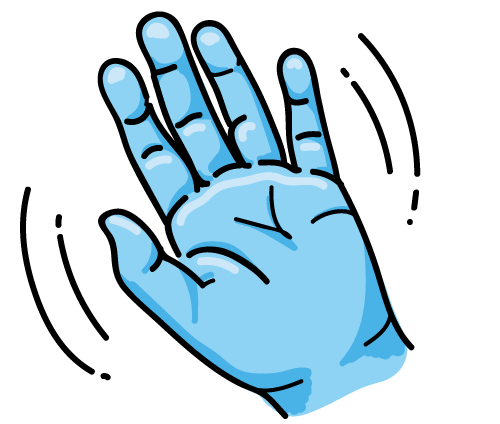
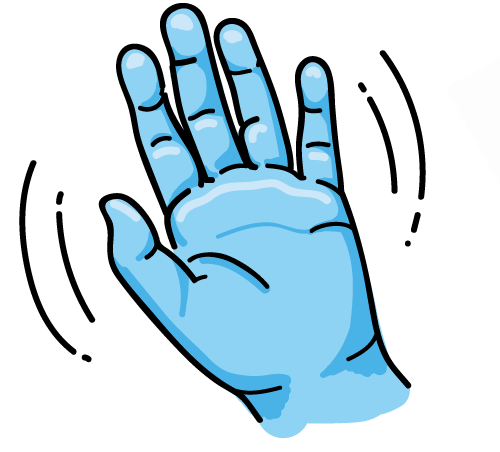
fixed shading on hand to look less spooky

Changed region(s): [[0.18, 0.0, 0.87, 1.0], [0.03, 0.3373, 0.24, 0.9198]]

diff --git a/backend/server/public/css/main.scss b/backend/server/public/css/main.scss
@@ -624,7 +624,7 @@ article {
       @include breakpoint-max(sm) {
         width:110px;
       }
-      width:12%;
+      width:32%;
       min-width: 110px;
       margin-right:5px
 
@@ -650,19 +650,11 @@ article {
       margin: 12px 0;
     }
 
-    .thinking-face, .wave {
-      margin-bottom: 19px;
-      height: 110px;
-    }
-
-    .thinking-face {
-      background-image: url("../images/hand-wave.png");
-      background-size: 130px;
-    }
-
     .wave {
+      margin-bottom: 15px;
+      height: 127px;
       background-image: url("../images/hand-wave.png");
-      background-size: 130px;
+      background-size: 145px;
     }
 
     p {

diff --git a/backend/server/public/src/components/please_install.jsx b/backend/server/public/src/components/please_install.jsx
@@ -40,7 +40,7 @@ const PleaseInstallUnconnected = ({ persona }) =>
   ].indexOf(persona.location[0]) > -1 ||
     persona.politics == "conservative") ? (
     <div className="glad-you-here">
-      <div className="thinking-face" />
+      <div className="wave" />
       <div>
         <h2>Is this you? We need your help!</h2>
         <h4>
